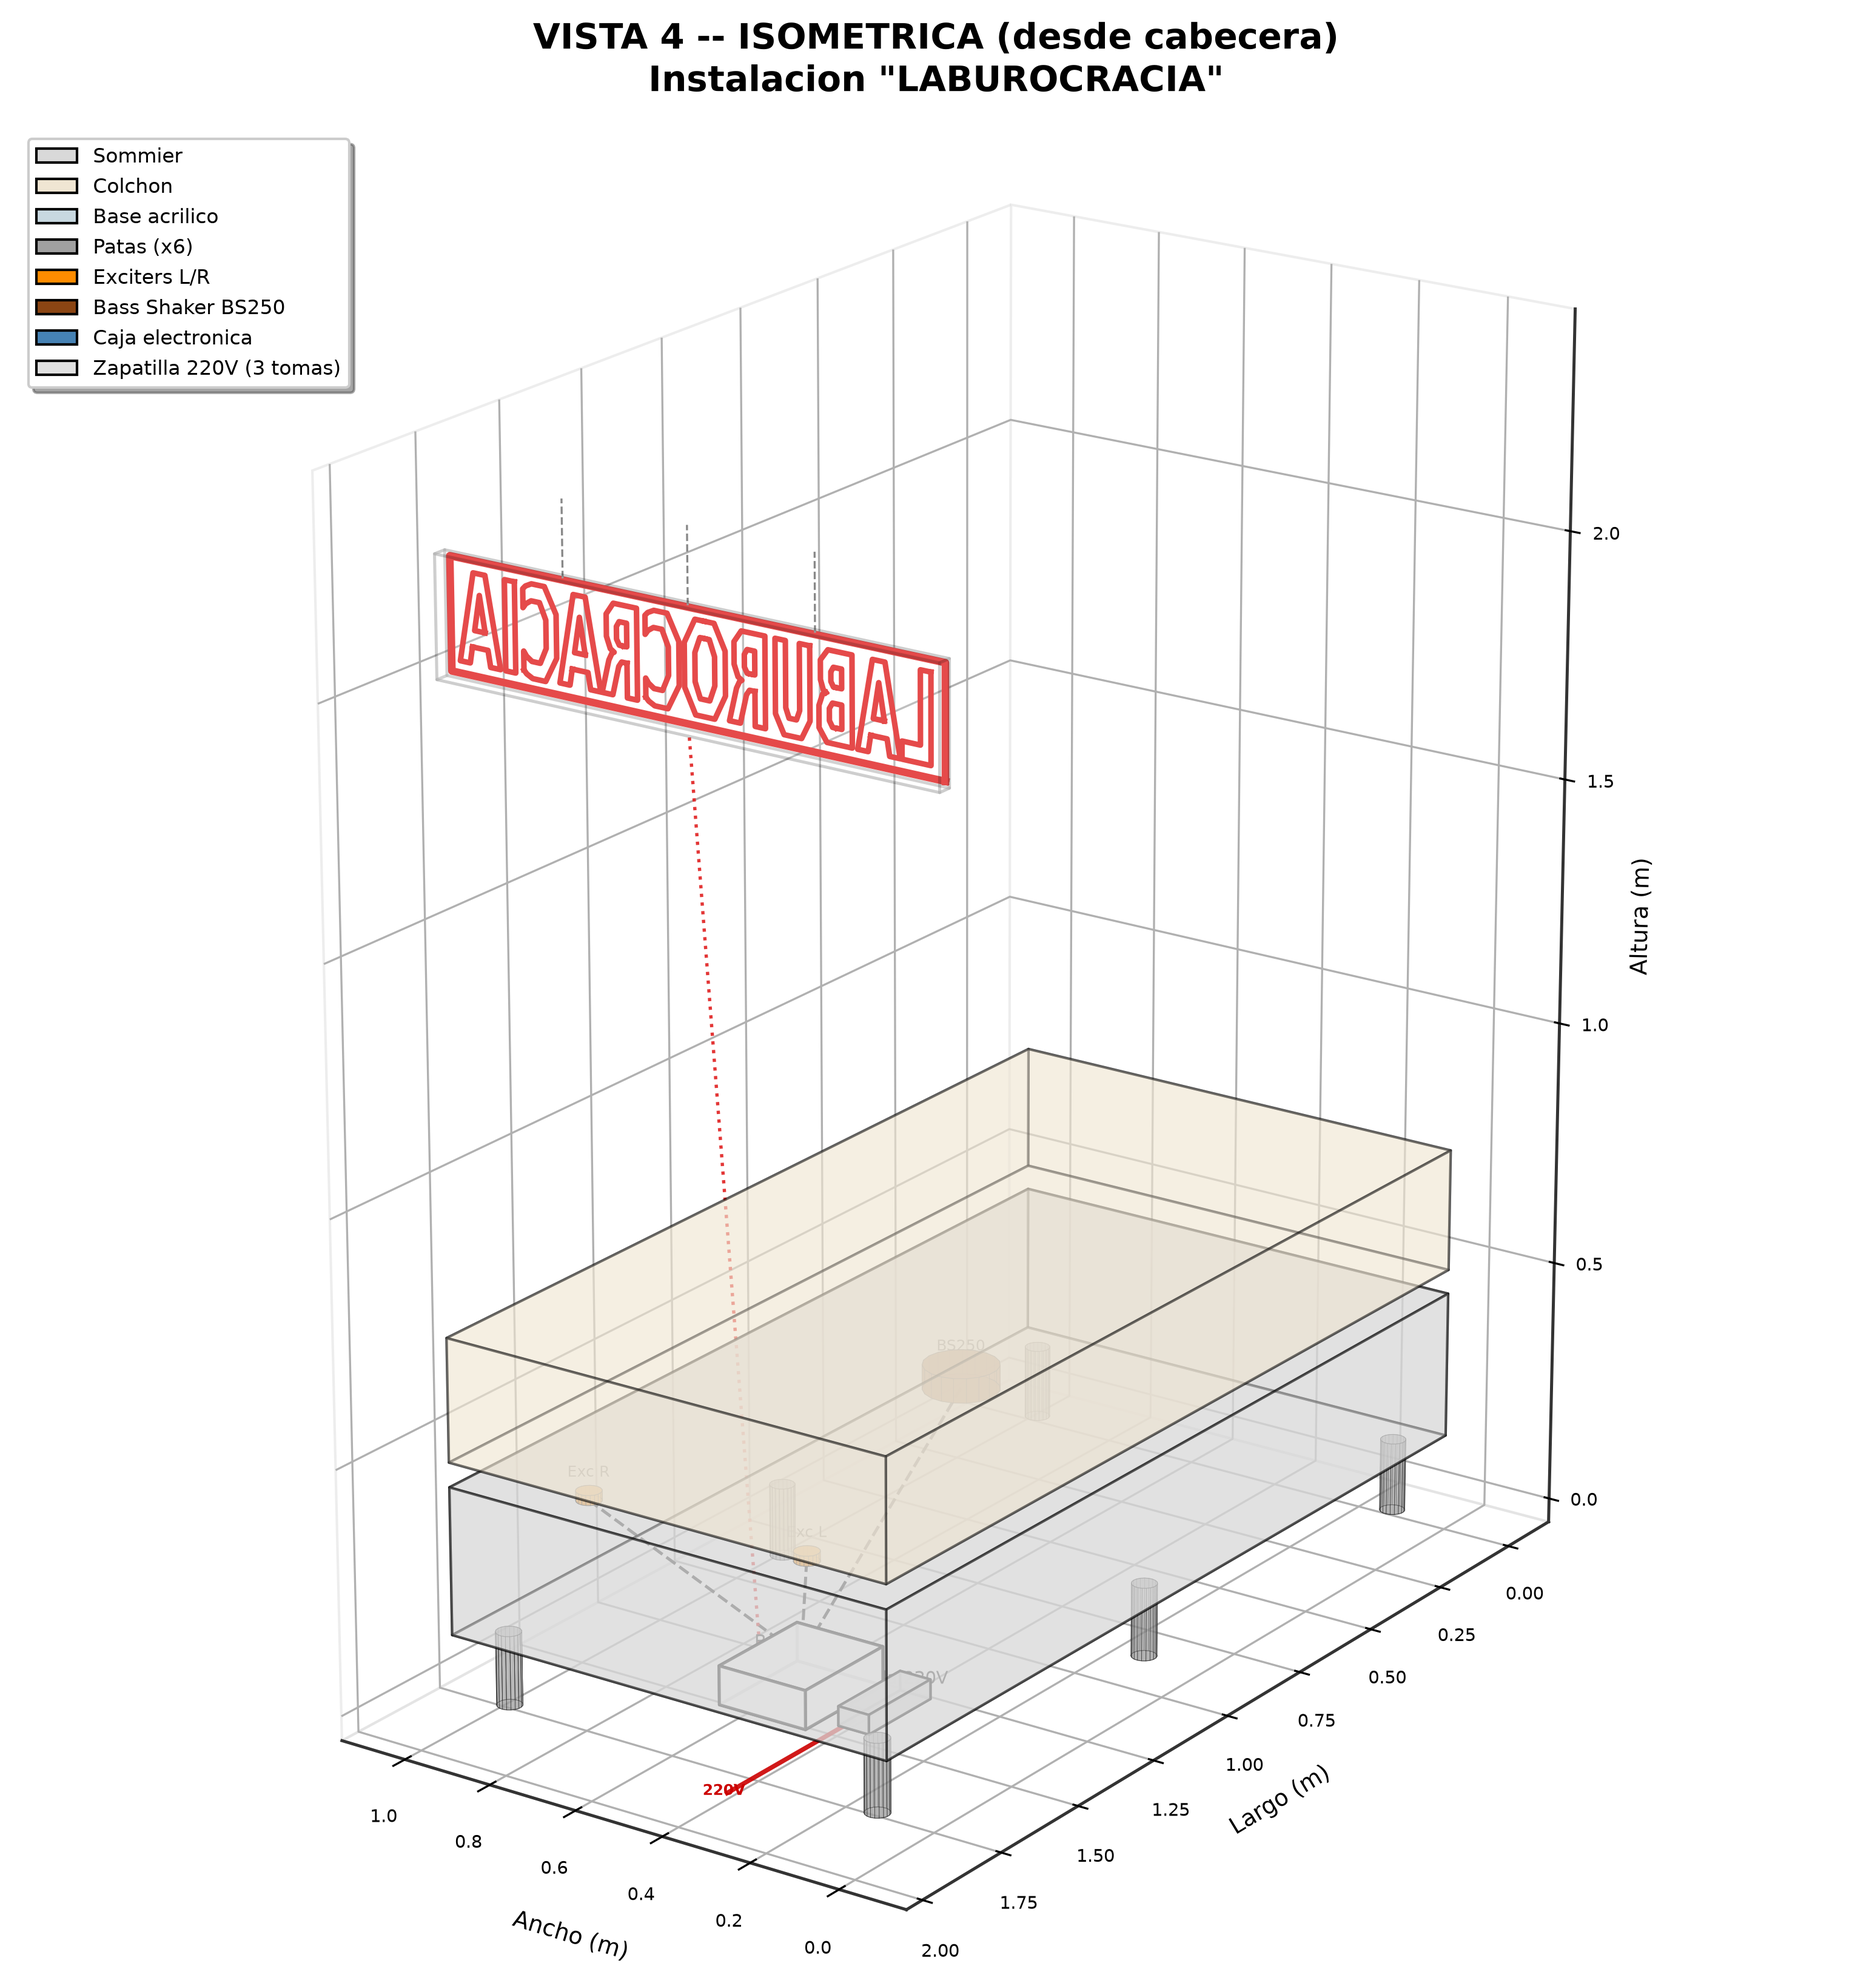
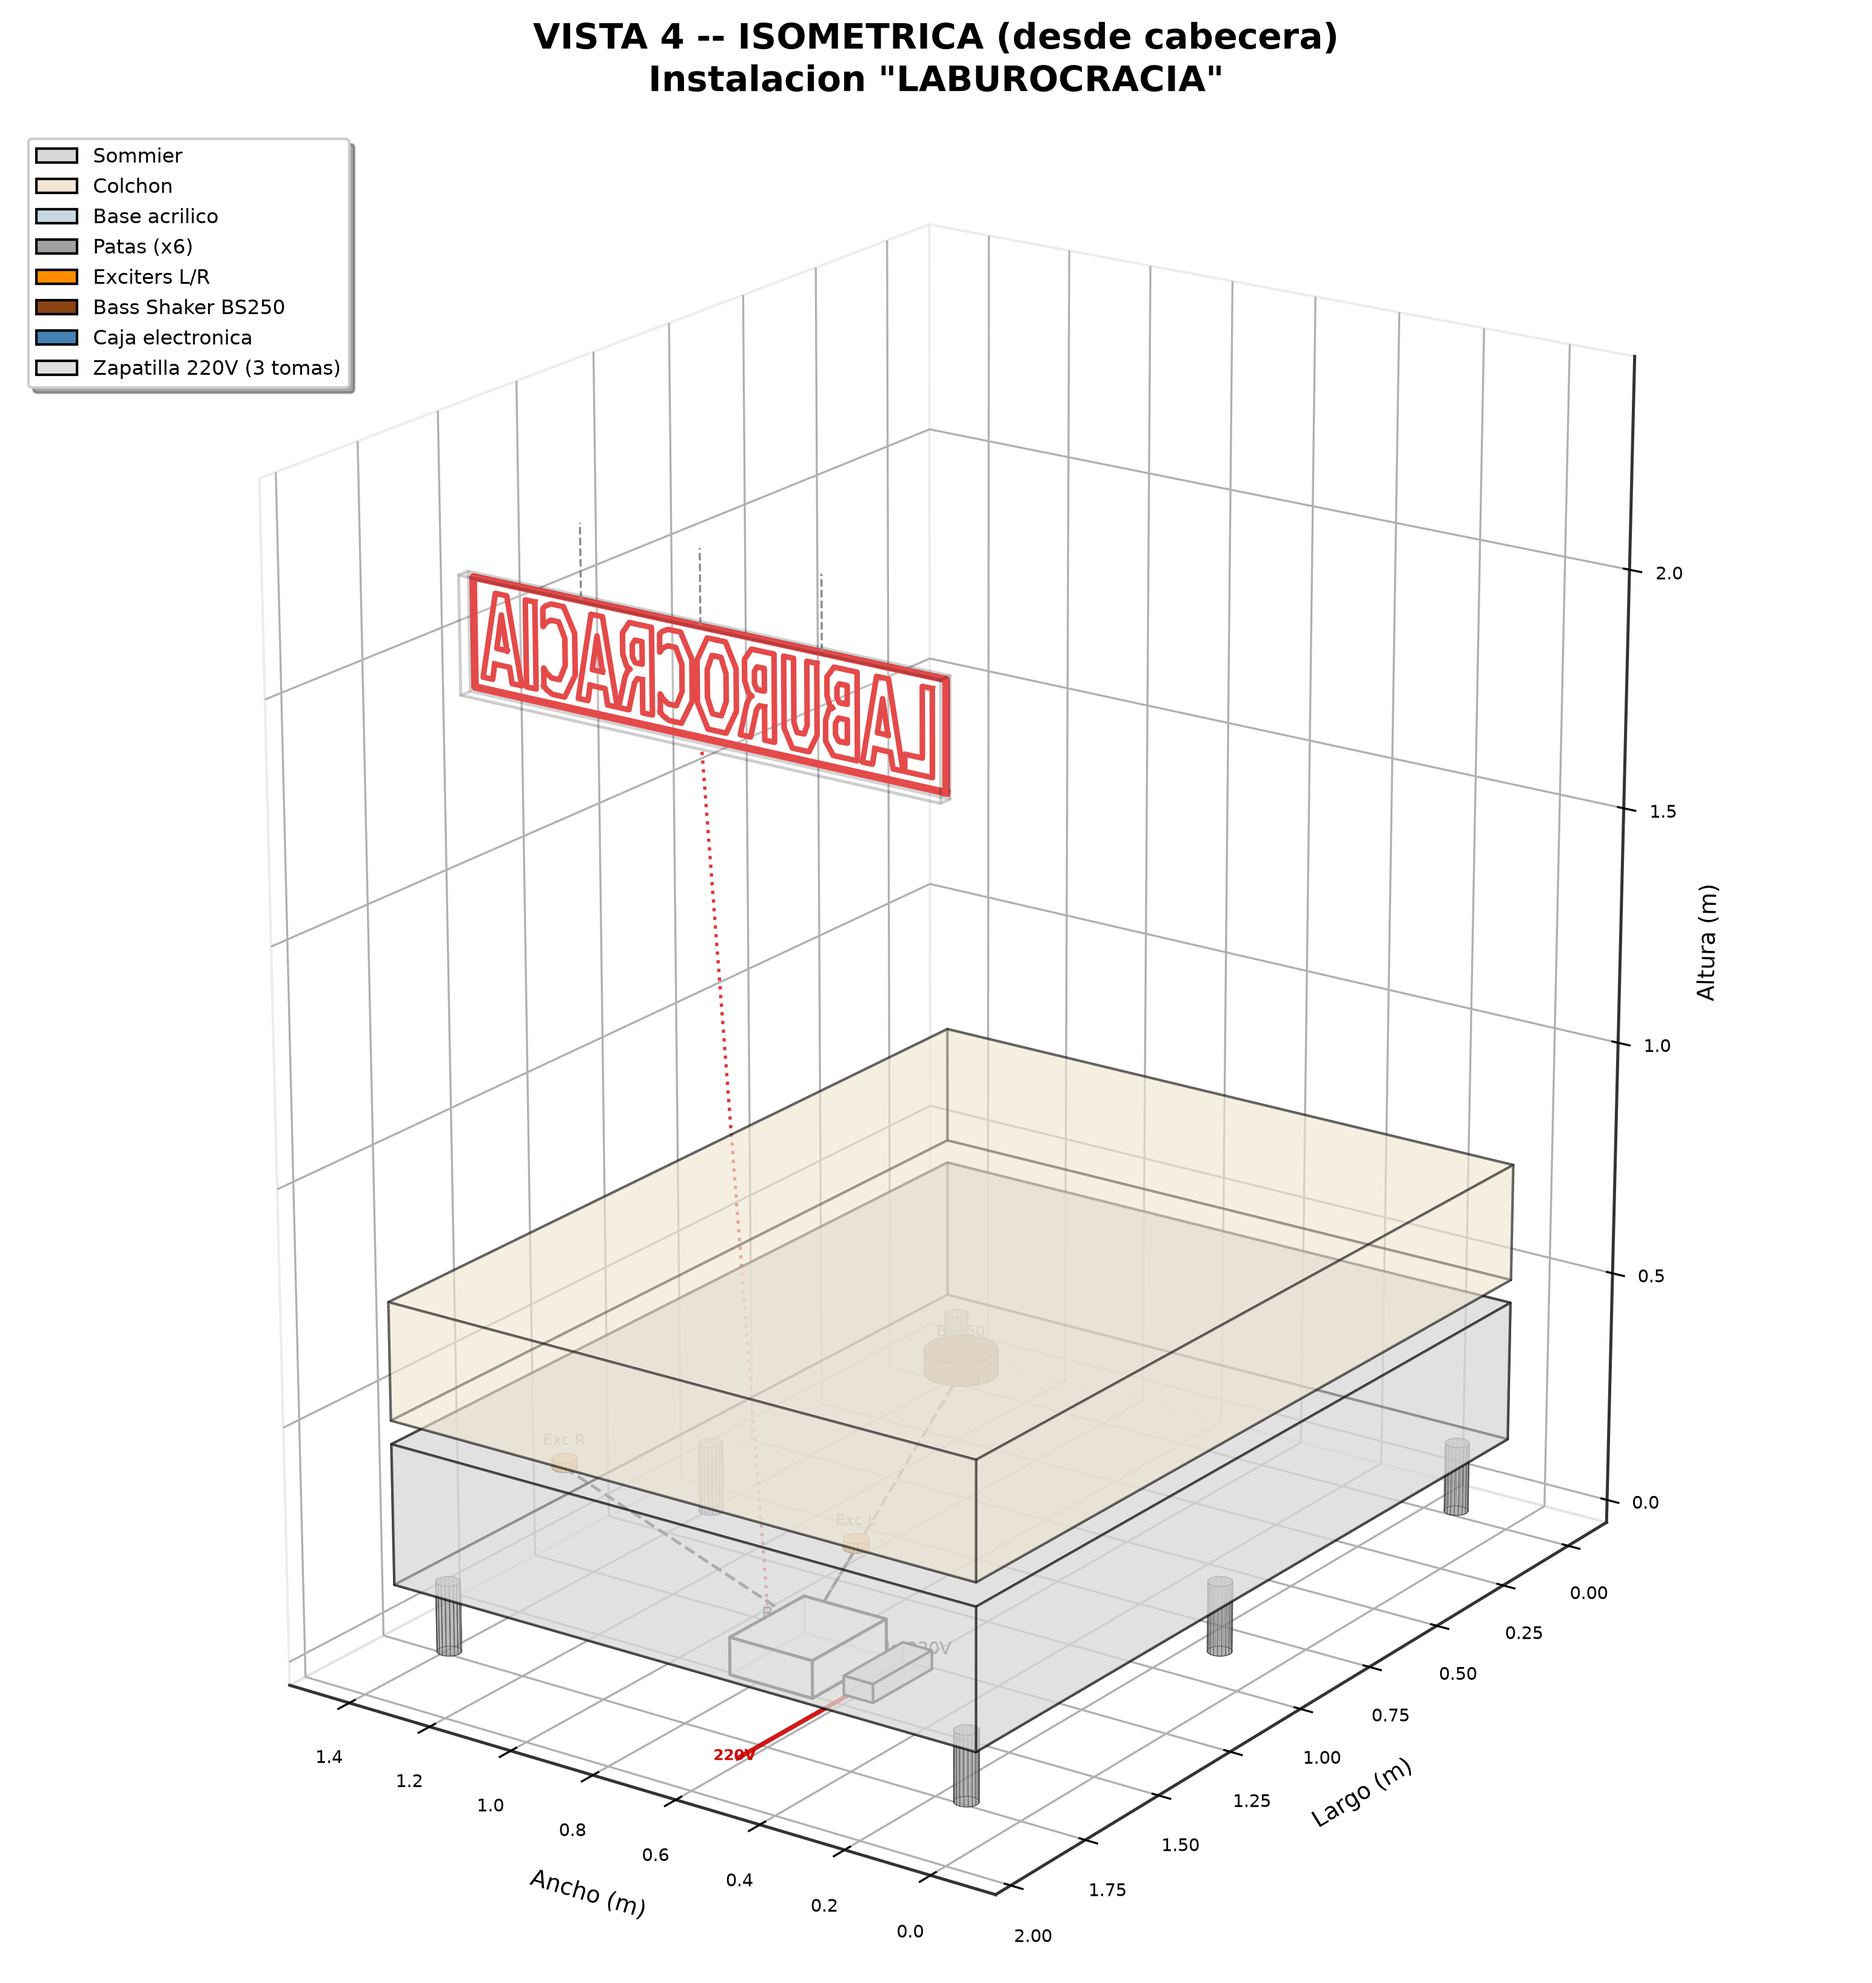
Adaptar medidas de sommier y colchon a 2 Plazas (1.40m x 1.90m) y recalcular posiciones

diff --git a/planos_instalacion.py b/planos_instalacion.py
@@ -43,14 +43,14 @@ DPI_GUARDADO = 300
 # ==============================================================================
 # MEDIDAS DE LA OBRA (en metros)
 # ==============================================================================
-# Sommier
+# Sommier (2 Plazas: 1.40m x 1.90m)
 SOMMIER_LARGO = 1.90    # m (eje Y en planta)
-SOMMIER_ANCHO = 1.00    # m (eje X en planta)
+SOMMIER_ANCHO = 1.40    # m (eje X en planta)
 SOMMIER_ALTO  = 0.30    # m
 
 # Colchón (mismas dimensiones de planta que el sommier)
 COLCHON_LARGO = 1.90    # m
-COLCHON_ANCHO = 1.00    # m
+COLCHON_ANCHO = 1.40    # m
 COLCHON_ALTO  = 0.25    # m
 
 # Letrero neón LED
